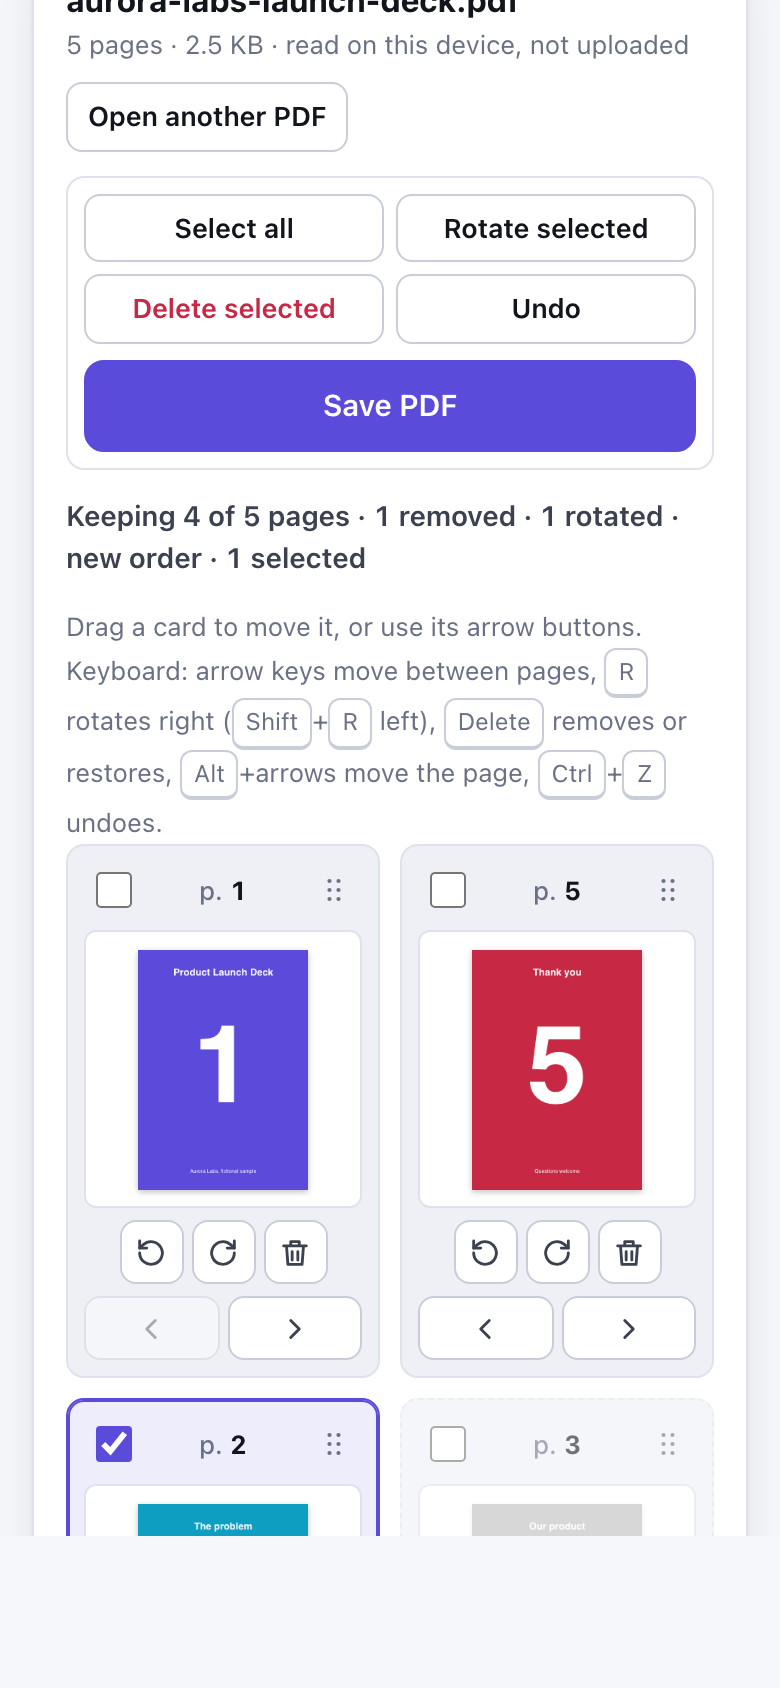
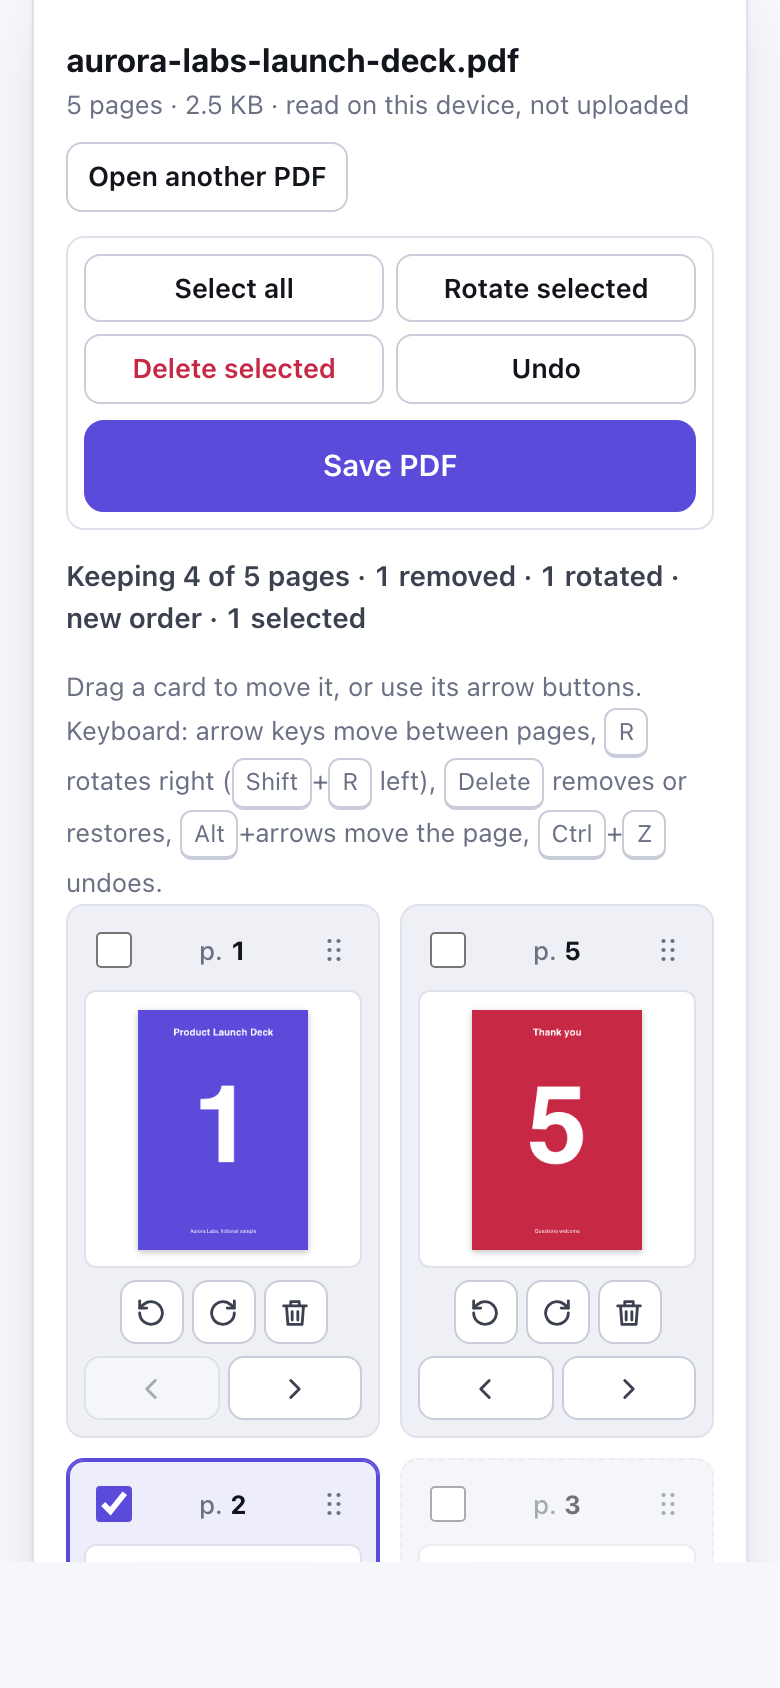
Update tool, tests and docs

diff --git a/tests/smoke.spec.js b/tests/smoke.spec.js
@@ -176,6 +176,38 @@ test.describe('PDF Page Organizer', () => {
     await expect(page.locator('#dropzone')).toBeVisible();
   });
 
+  test('the toolbar is live right after loading, and saving without edits keeps every page', async ({ page }) => {
+    await openDeck(page);
+    await expect(page.locator('#save')).toBeEnabled();
+    await expect(page.locator('#select-all')).toBeEnabled();
+    await expect(page.locator('#undo')).toBeDisabled();
+    await page.click('#select-all');
+    await expect(page.locator('#page-grid .page-card.is-selected')).toHaveCount(5);
+    await expect(page.locator('#rotate-selected')).toBeEnabled();
+    await page.click('#select-all');
+    await expect(page.locator('#page-grid .page-card.is-selected')).toHaveCount(0);
+    const pages = await inspect(page, await saveAndDownload(page));
+    expect(numbers(pages)).toEqual([1, 2, 3, 4, 5]);
+    expect(pages.map((p) => p.rotation)).toEqual([0, 0, 0, 0, 0]);
+  });
+
+  test('a PDF opens normally after a file that failed to load', async ({ page }) => {
+    await open(page, 'locked.pdf');
+    await expect(page.locator('#results .alert--error')).toContainText(/password protected/);
+    await page.setInputFiles('#file-input', fixture(DECK));
+    await expect(page.locator('#page-grid .page-card')).toHaveCount(5);
+    await expect(page.locator('#results .alert--error')).toHaveCount(0);
+    await expect(page.locator('#save')).toBeEnabled();
+    // Damaged file, then a good one.
+    await page.click('#open-another');
+    await page.setInputFiles('#file-input', { name: 'broken.pdf', mimeType: 'application/pdf', buffer: Buffer.from('%PDF-1.4 but nothing else') });
+    await expect(page.locator('#results .alert--error')).toContainText('could not be read as a PDF');
+    await page.setInputFiles('#file-input', fixture(DECK));
+    await expect(page.locator('#page-grid .page-card')).toHaveCount(5);
+    await expect(page.locator('#results .alert--error')).toHaveCount(0);
+    await saveAndDownload(page);
+  });
+
   test('wrong file types are rejected, also when mixed with a PDF', async ({ page }) => {
     await page.goto('./');
     await page.setInputFiles('#file-input', fixture('sample.png'));

diff --git a/app.js b/app.js
@@ -194,6 +194,7 @@ async function openPdf(file) {
     $('file-info').textContent = `${doc.pageCount} ${doc.pageCount === 1 ? 'page' : 'pages'} · ${formatBytes(doc.size)} · read on this device, not uploaded`;
     zone.hidden = true;
     organizer.hidden = false;
+    busy = false; // before render(): the toolbar reads this flag, so Save and Select all must not be drawn disabled
     render();
     grid.firstElementChild?.scrollIntoView({ block: 'nearest' });
     toast(`Opened ${doc.pageCount} pages — nothing was uploaded`);
@@ -202,6 +203,7 @@ async function openPdf(file) {
     loadingTask?.destroy();
     if (token !== loadToken) return false;
     prog.remove();
+    busy = false; // before resetToEmpty(): it bumps loadToken, after which the finally block no longer owns the flag
     resetToEmpty(false);
     showError(loadErrorMessage(err, file.name));
     return false;

diff --git a/sw.js b/sw.js
@@ -1,6 +1,6 @@
 // sw.js — offline support. VERSION and ASSETS are generated by the factory from the real file list
 // (web_build.finalize_sw) right before the tests run; the builder does not edit this file.
-const VERSION = 'd9e5fa2246';
+const VERSION = 'd5ffad2f1f';
 const ASSETS = ["./", "./app.js", "./icon.svg", "./icons/icon-192.png", "./icons/icon-512.png", "./index.html", "./manifest.webmanifest", "./site.js", "./styles.css", "./vendor/pdf-lib/pdf-lib.min.js", "./vendor/pdfjs-dist/pdf.min.mjs", "./vendor/pdfjs-dist/pdf.worker.min.mjs", "./worker.js"];
 const CACHE = `tool-${VERSION}`;
 

diff --git a/site.js b/site.js
@@ -43,6 +43,7 @@ if ('serviceWorker' in navigator && (location.protocol === 'https:' || ['localho
 
 // Tiny helpers tools can import: `import { toast, downloadBlob, formatBytes } from './site.js'`
 export function toast(message, ms = 2400) {
+  document.querySelectorAll('.toast').forEach((t) => t.remove()); // one toast at a time, never overlapping
   const el = document.createElement('div');
   el.className = 'toast';
   el.setAttribute('role', 'status');
